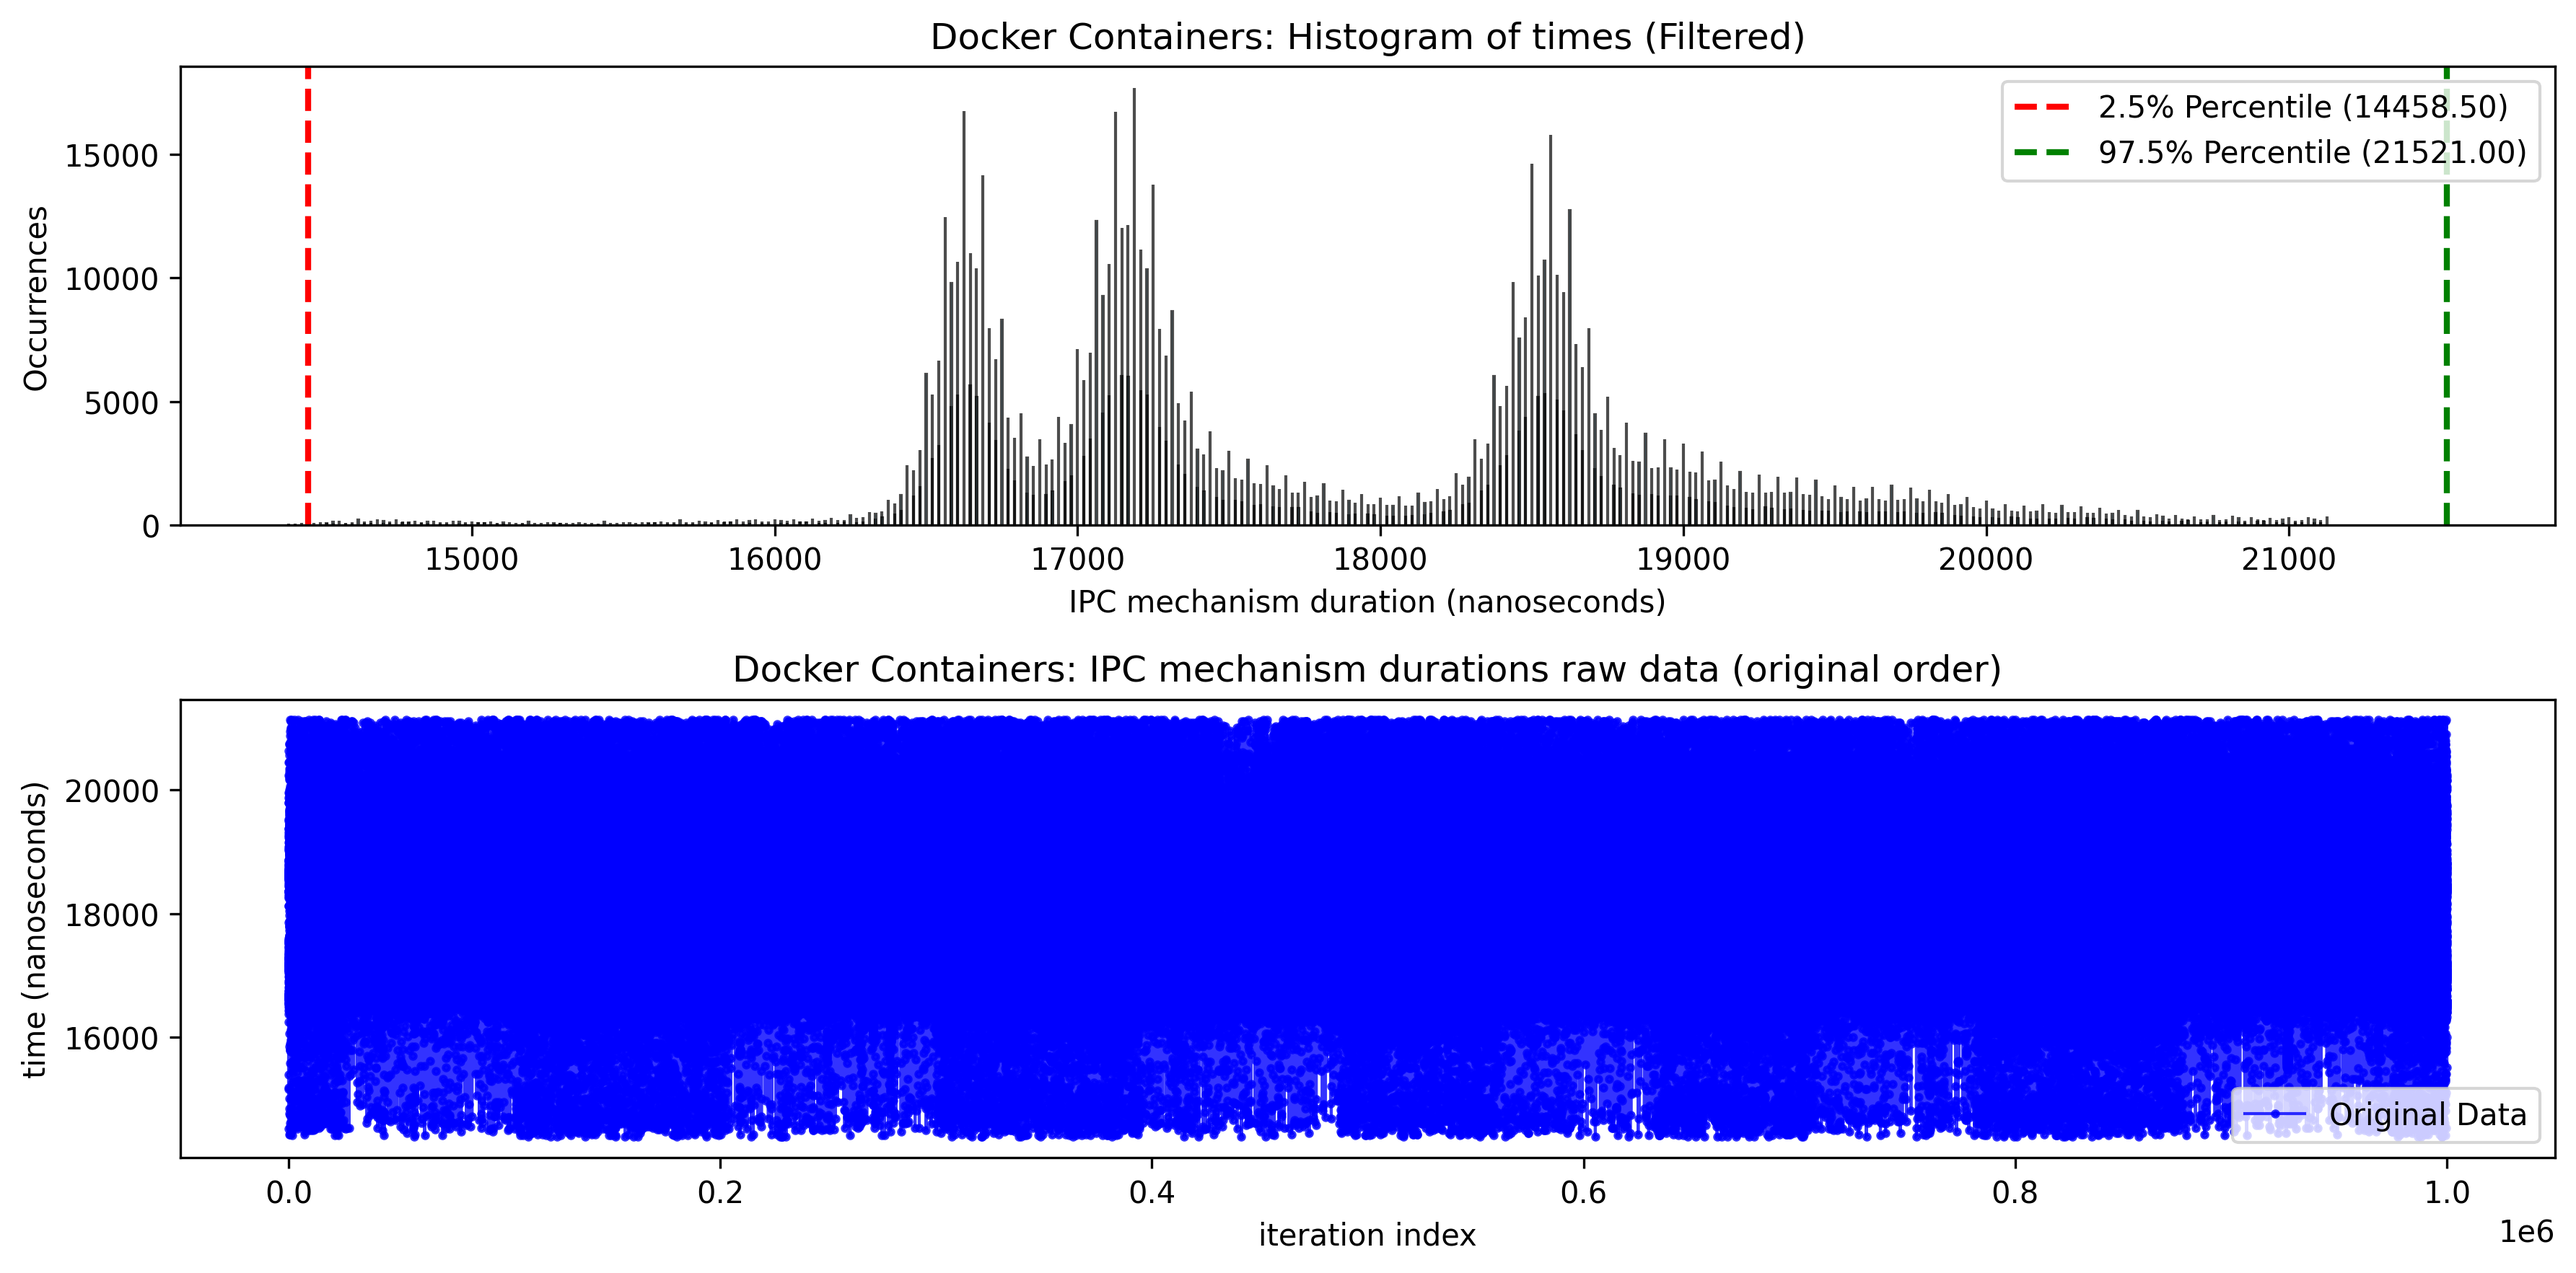
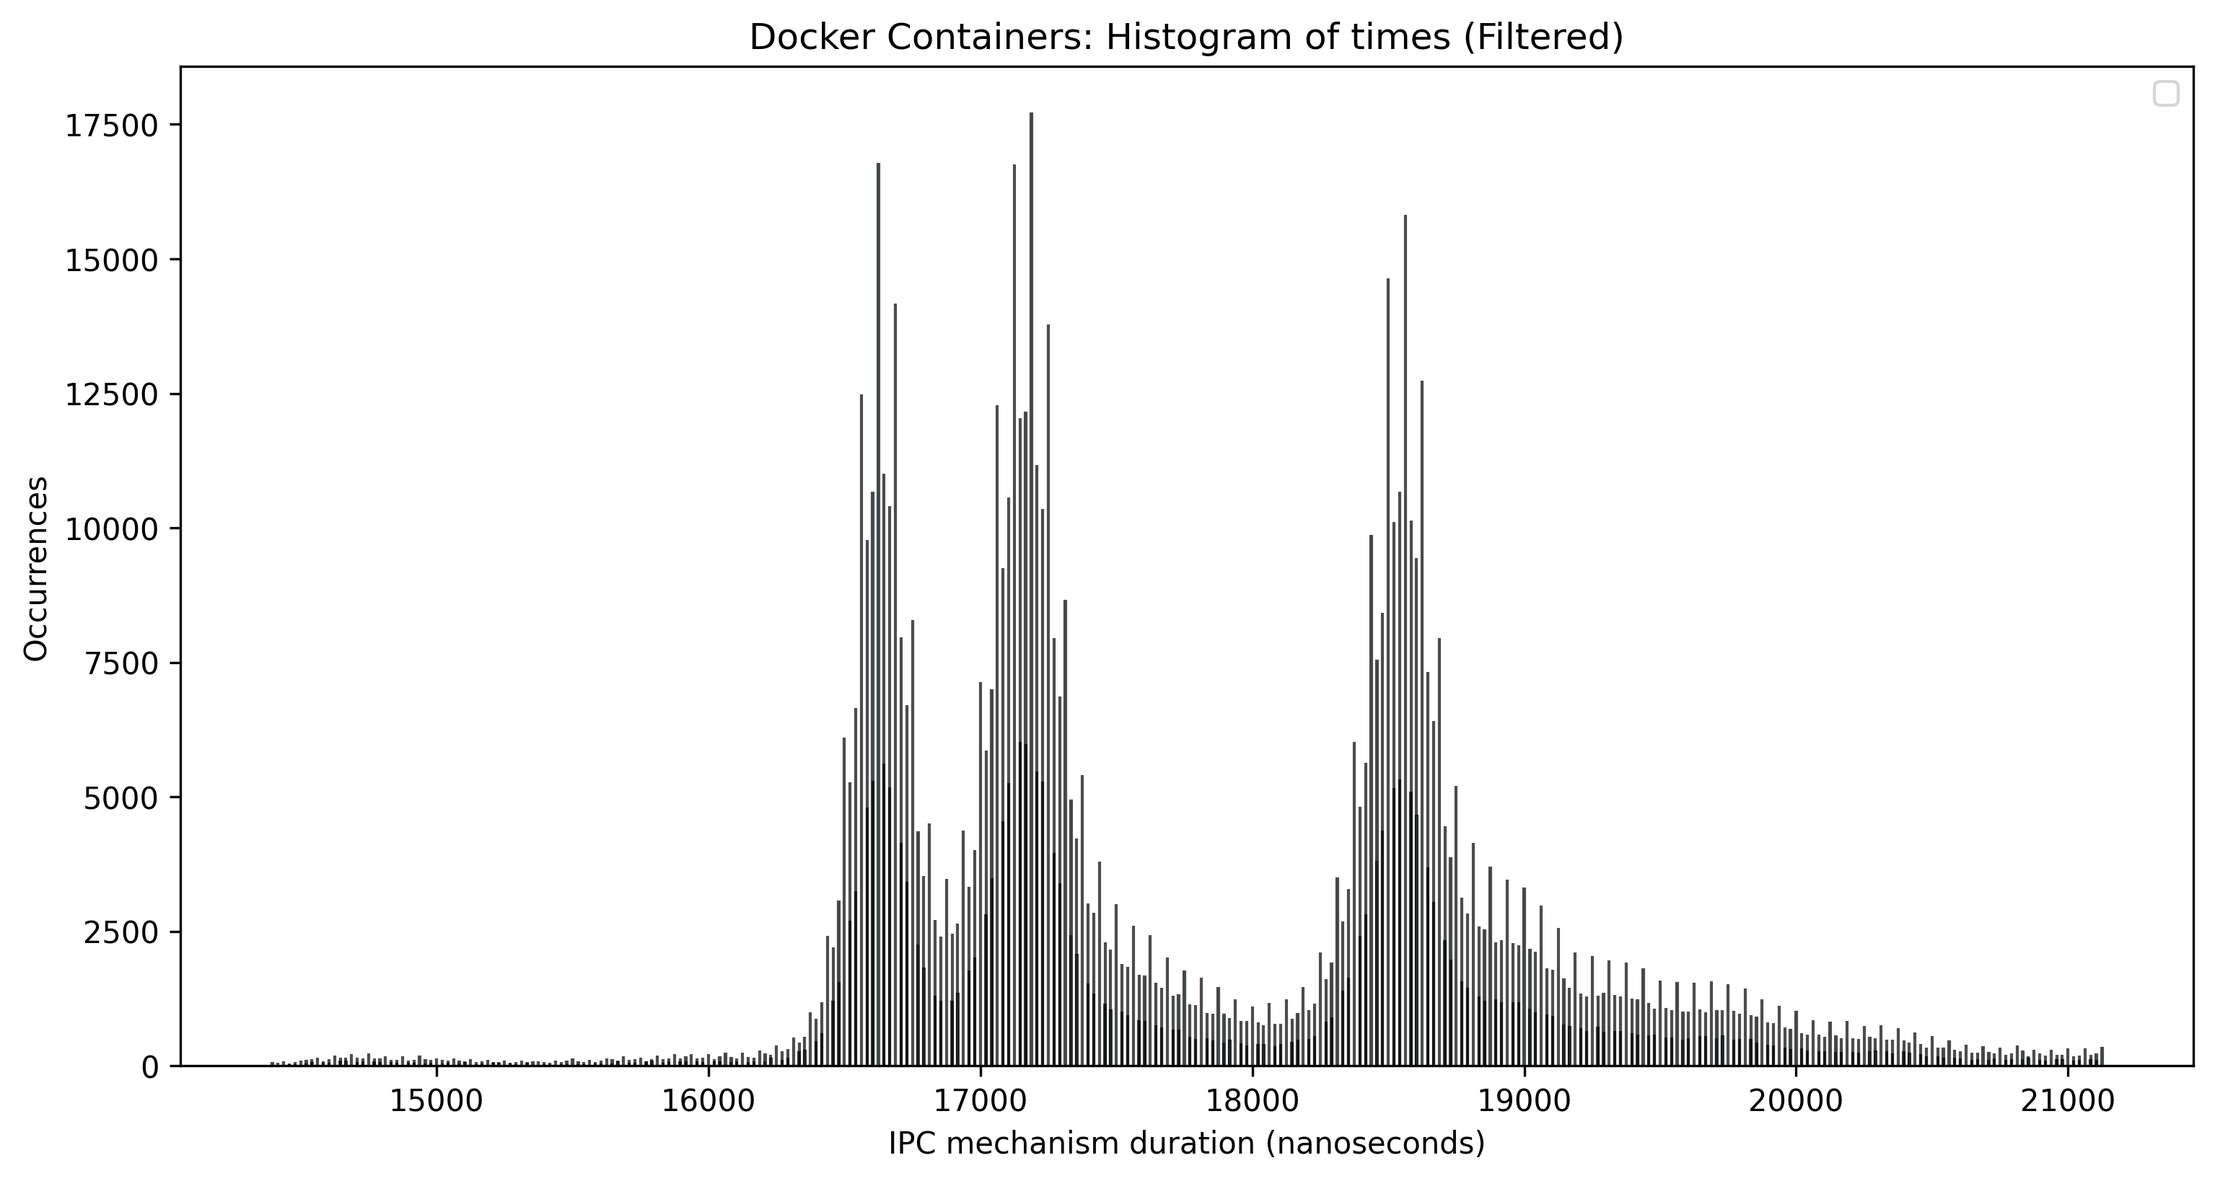
Update experiment result graphs

diff --git a/OS2_Analysis/analysis.py b/OS2_Analysis/analysis.py
@@ -31,7 +31,7 @@ def analyze_data(file_name, experiment_name):
 
     # Plot the histogram
     plt.figure(figsize=(12, 6))
-    plt.subplot(2, 1, 1)  # First subplot for the histogram
+    #plt.subplot(2, 1, 1)  # First subplot for the histogram
     plt.bar(x_values, y_values, width=0.5, color='skyblue', edgecolor='black', alpha=0.7)
     plt.title(experiment_name+': Histogram of times (Filtered)')
     plt.xlabel('IPC mechanism duration (nanoseconds)')
@@ -40,20 +40,20 @@ def analyze_data(file_name, experiment_name):
 
     # Add a legend
     plt.legend()
-
+    """
     # Plot the line diagram for the original data
     plt.subplot(2, 1, 2)  # Second subplot for the line diagram
     plt.plot(indices, data, color='blue', marker='o', markersize=2, linewidth=1, alpha=0.8, label='Original Data')
     plt.title(experiment_name+ ': IPC mechanism durations raw data (original order)')
     plt.xlabel('iteration index')
     plt.ylabel('time (nanoseconds)')
-
+    
     # Add a legend
     plt.legend()
 
     # Adjust layout to prevent overlap
     plt.tight_layout()
-
+    """
     plt.savefig(f"{experiment_name}.png", dpi=300, bbox_inches="tight")
 
     # Display the plot
@@ -116,9 +116,7 @@ if __name__ == '__main__':
     f_better_spin = 'data/better_spinlock.txt'
     analyze_data(f_spinlock_intraproc, "Spinlock Intraprocess")
     analyze_data(f_better_spin, "Better Spinlock")
-"""
     analyze_data(f_sem_intraproc, "Semaphores Intraprocess")
     analyze_data(f_zmq_intraproc, "ZMQ Intraprocess")
     analyze_data(f_zmq_interproc, "ZMQ Interprocess")
     analyze_data(f_docker, "Docker Containers")
-    """
